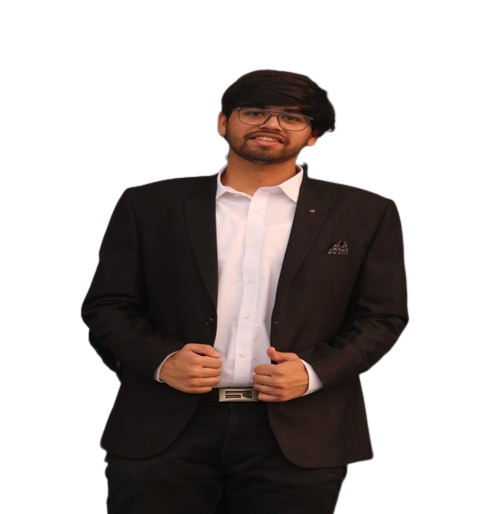
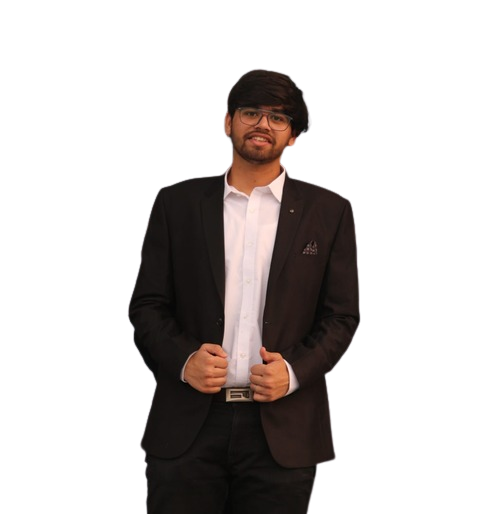
sponsors team photo update

Changed region(s): [[0.1546, 0.1245, 0.866, 1.0], [0.5258, 0.8093, 0.6186, 0.9339]]

diff --git a/Teams_Page/Teams.html b/Teams_Page/Teams.html
@@ -772,7 +772,7 @@
                                     <div>
                                         <a href="https://www.linkedin.com/in/yogesh-tiwari-5a44b8202">
                                         <img
-                                        class = "straight" src="images/yogesh_tiwari.png">
+                                        id="yogesh" src="images/yogesh_tiwari.png">
                                         <div class="member-info">
                                             <h3>Yogesh Tiwari</h3>
                                             <p>Team Member</p>
@@ -788,7 +788,7 @@
                                 <div class="member-details">
                                     <div>
                                         <a href="https://instagram.com/tyagideep28?igshid=ZmZhODViOGI=">
-                                        <img class = "straight" id = "deepanshu" src="images/Deepanshu_tyagi.png"
+                                        <img id = "deepanshu" src="images/Deepanshu_tyagi.png"
                                             alt="Team Member">
                                         <div class="member-info">
                                             <h3>Deepanshu Tyagi</h3>
@@ -844,7 +844,7 @@
                                 <div class="member-details">
                                     <div>
                                         <a href="https://www.linkedin.com/in/harsh-gupta-9b5944188">
-                                        <img class = "straight" src="images/Harsh_gupta.png"
+                                        <img class = "straight" id="harsh" src="images/Harsh_gupta.png"
                                             alt="Team Member">
                                         <div class="member-info">
                                             <h3>Harsh Gupta</h3>
@@ -857,7 +857,7 @@
                                 <div class="member-details">
                                     <div>
                                         <a href="https://www.linkedin.com/in/kunal-singh-1704601b5">
-                                        <img class = "straight" id ="kunal" src="images/Kunal_singh.png"
+                                        <img src="images/Kunal_singh.png"
                                             alt="Team Member">
                                         <div class="member-info">
                                             <h3>Kunal Singh</h3>

diff --git a/Teams_Page/Teams.css b/Teams_Page/Teams.css
@@ -540,10 +540,13 @@ a:hover {
     .straight{
         transform: rotate(0deg) scale(1.5) !important; 
     }
-    #deepanshu{
-        transform: rotate(0deg) scale(3.5) !important; 
+    #harsh{
+        transform: rotate(0deg) scale(1.1) !important;
     }
-    #kunal{
-        transform: rotate(0deg) scale(3.5) translateY(-9px) !important; 
+    #yogesh{
+        transform: rotate(0deg) scale(1.1) !important;
+    }
+    #deepanshu{
+        transform: rotate(0deg) scale(1.2) !important;  
     }
   }

diff --git a/index.html b/index.html
@@ -94,7 +94,7 @@
           
 
 
-                    <a href="/contactUs-page/contact.html" style="text-decoration: none; color: white; font-weight: bold;">
+                    <a href="./contactUs-page/contact.html" style="text-decoration: none; color: white; font-weight: bold;">
                         Register Now
                     </a>
 

diff --git a/contactUs-page/nav.css b/contactUs-page/nav.css
@@ -15,7 +15,7 @@ header {
 }
 
 .navigation {
-    margin-top: 2rem;
+    margin-top: -1rem;
     position: fixed;
     width: 5rem;
     background: #fff;
